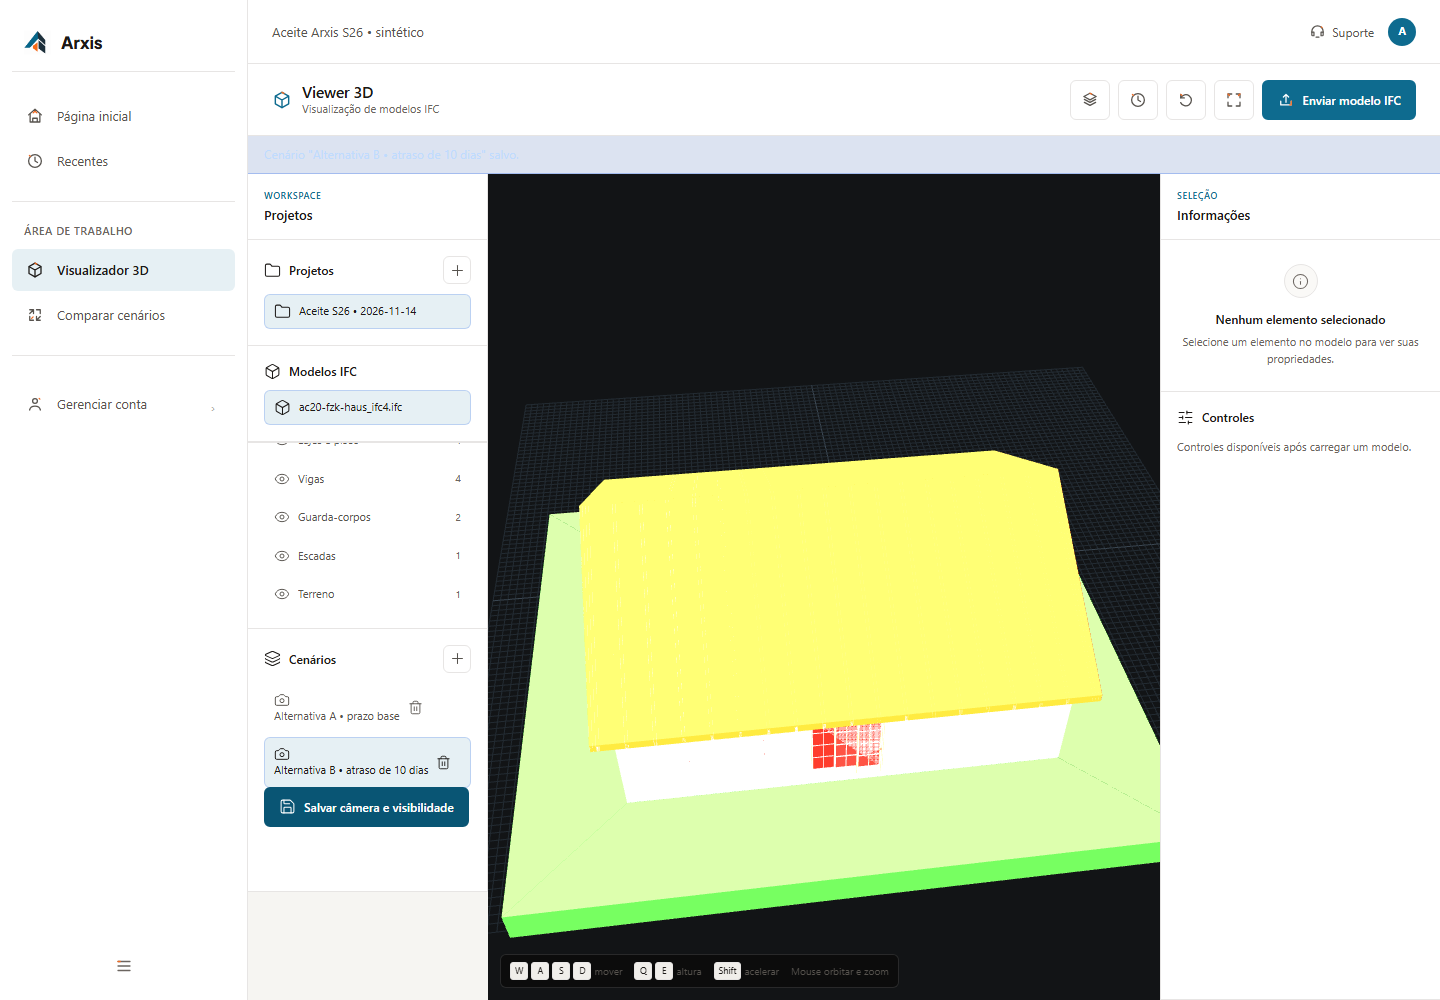
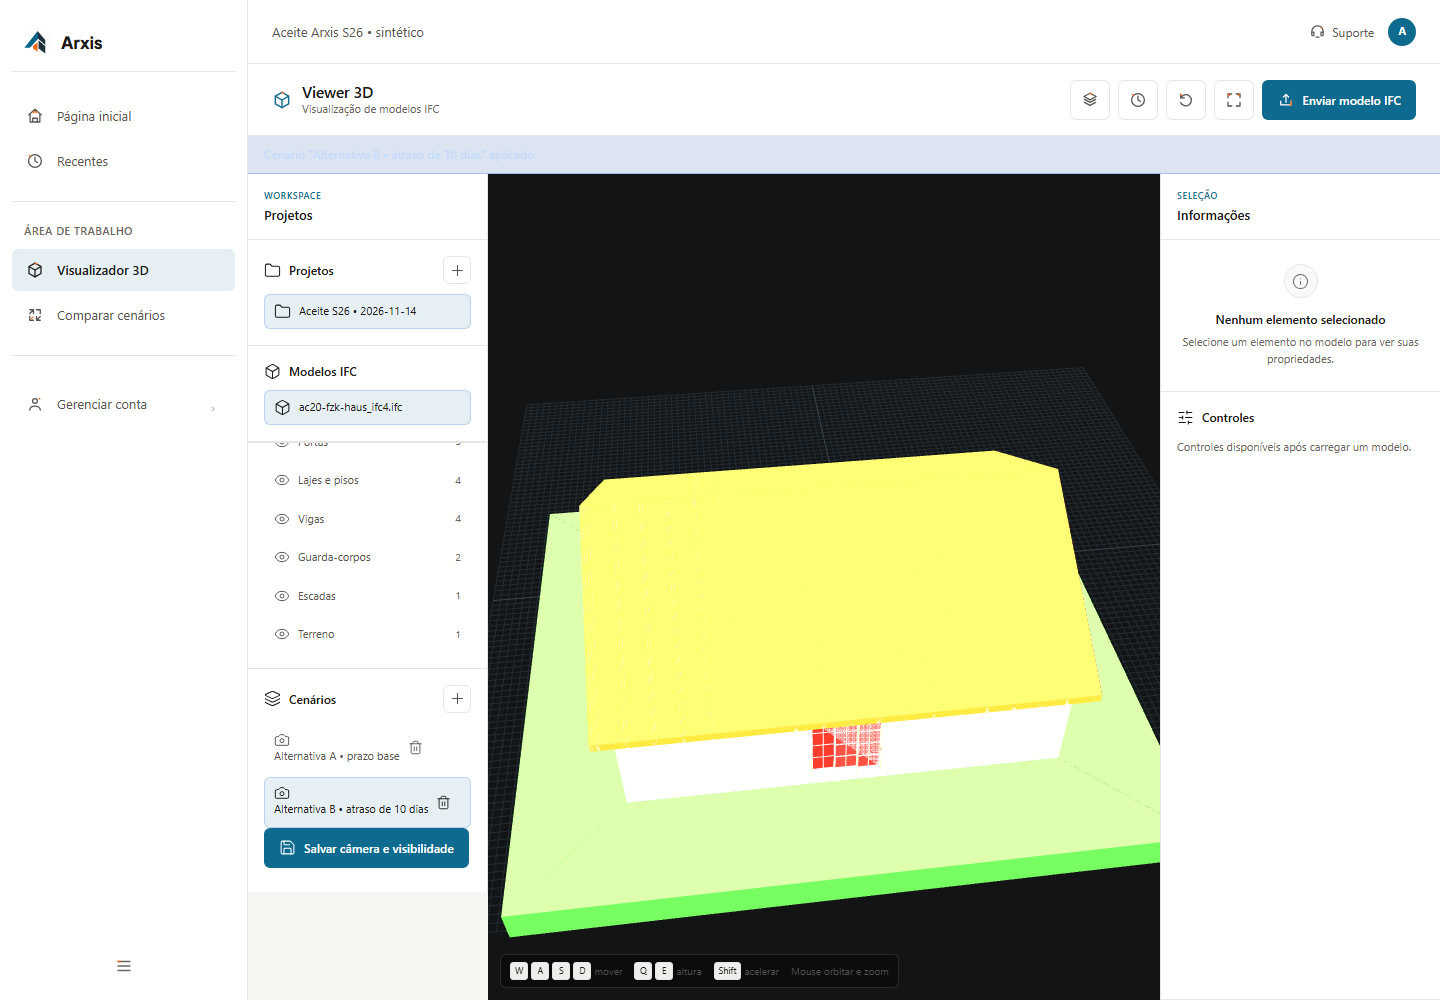
test: aguardar geometria visivel na prova de cenarios

Changed region(s): [[0.1562, 0.589, 0.3438, 0.868], [0.5625, 0.713, 0.625, 0.775], [0.1875, 0.465, 0.25, 0.527]]

diff --git a/documentation/S26-PROVA-BROWSER.md b/documentation/S26-PROVA-BROWSER.md
@@ -21,7 +21,7 @@ para reprodução. Credenciais e estado autenticado ficam fora do repositório.
 | Prova | Evidência |
 |---|---|
 | S12 • dois cenários com câmera e visibilidade diferentes | Alternativas A e B criadas e salvas na tela; B oculta Janelas. |
-| S12 • persistência e reaplicação após reload | Câmeras e metadados relidos iguais ao que foi salvo; troca A/B altera 50,60% dos pixels do canvas. |
+| S12 • persistência e reaplicação após reload | Câmeras e metadados relidos iguais ao que foi salvo; com o modelo renderizado nos dois lados, a troca A/B altera 37,37% dos pixels do canvas. |
 | S18 • comparação visual | Split com dois canvas, legenda de diferença por categoria e bloqueio de A contra A. |
 | S18 • sincronização real | Arrastar A altera B quando sincronizado; B permanece estável com o vínculo solto. |
 | S18 • exportação | PNG da comparação baixado pelo botão da tela. |
@@ -36,6 +36,10 @@ para reprodução. Credenciais e estado autenticado ficam fora do repositório.
 O resultado final registrou zero erros JavaScript e zero respostas HTTP de erro
 observadas no fluxo temporal. Medição por pixels comprova mudança visual; não é
 benchmark de desempenho nem validação de grandes modelos.
+
+As capturas de S12 esperam a confirmação de aplicação do cenário e verificam
+presença de geometria visível da fixture antes de registrar os pixels. Essa
+trava substituiu uma espera fixa que podia capturar somente o fundo entre frames.
 
 ## Defeito encontrado e corrigido
 
@@ -58,6 +62,7 @@ que abas antigas ainda podem solicitar. A API permaneceu no ar.
 ## Artefatos e reprodução
 
 • [Resultado final em JSON](provas/s26/resultado-20261114.json).
+• [Regressões S12/S18 em JSON](provas/s26/regressoes-20261114.json).
 • [Mesma data, prazos diferentes](provas/s26/19-mesma-data-prazos-diferentes.png).
 • [Celular](provas/s26/24-mobile-390.png).
 • [Imagem exportada da comparação](provas/s26/12-exportacao-comparacao.png).
@@ -73,6 +78,10 @@ local deve ser `user`. Os scripts conferem identidade e papel antes de seguir.
 Se Playwright estiver instalado fora do projeto, informar o módulo em
 `ARXIS_PLAYWRIGHT_MODULE`. O primeiro script registra recursos e estado privado
 para a segunda etapa. `S26_RESUME=1` permite retomar apenas os cronogramas.
+
+Ao encerrar, as oito sessões de refresh criadas para a conta sintética foram
+revogadas. A conta e seus dados foram preservados; repetir a prova exige uma
+nova entrada pelo fluxo oficial, como os scripts já fazem.
 
 ```powershell
 node deploy/bench/prove-s26.cjs
